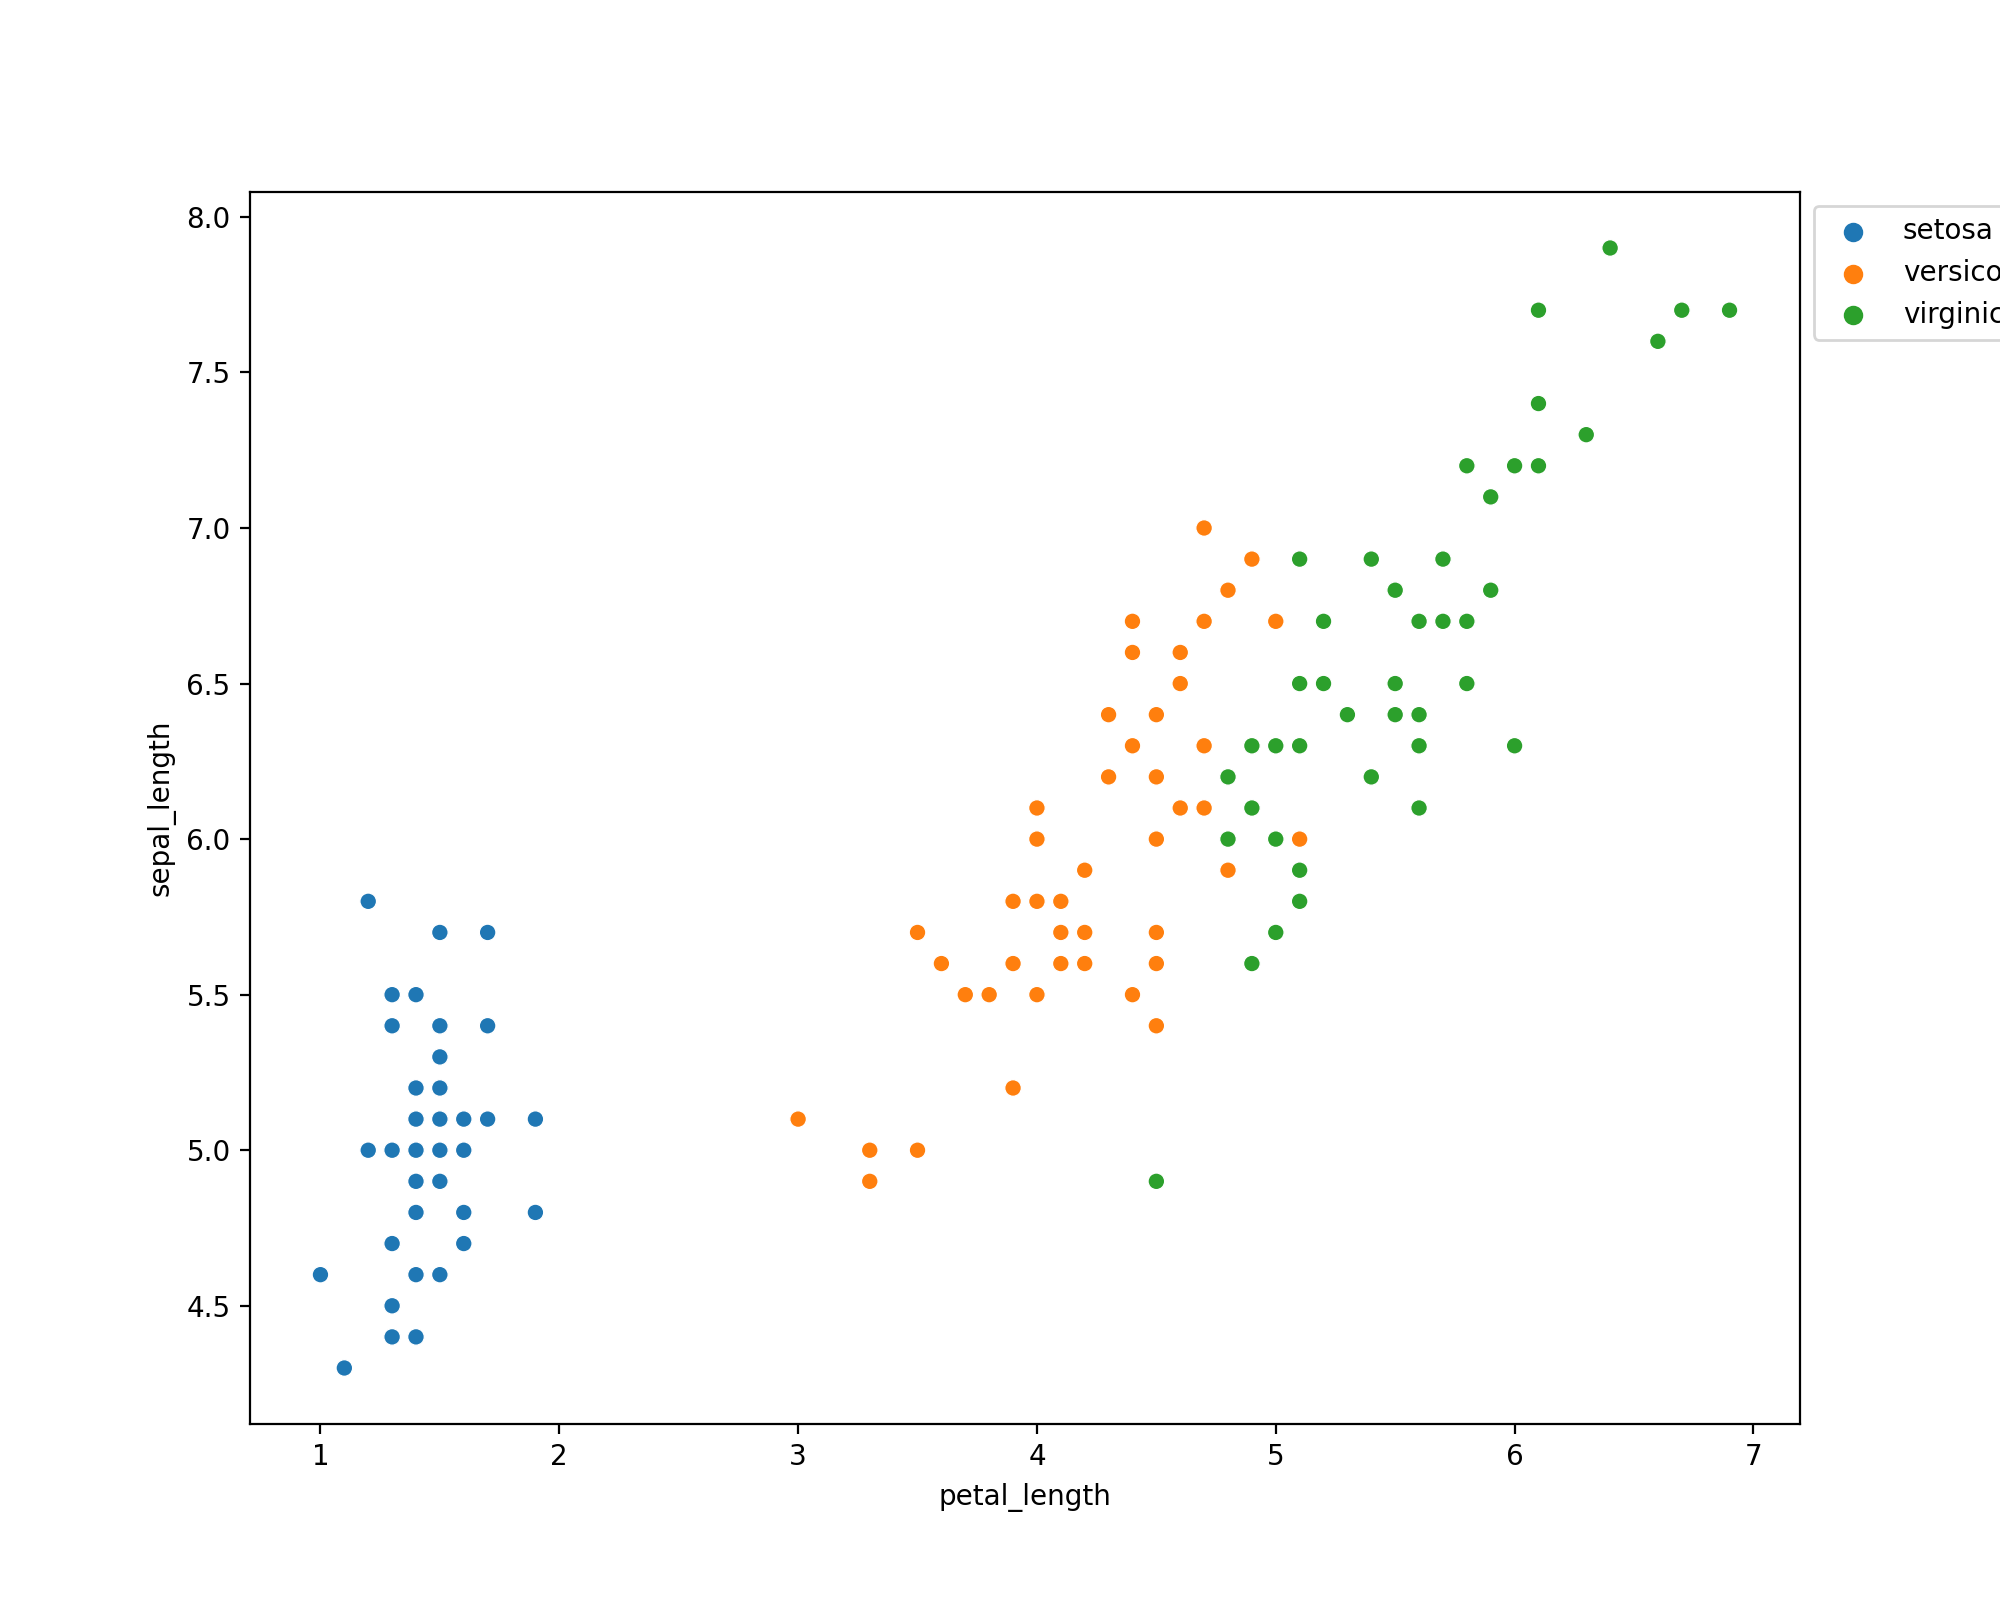
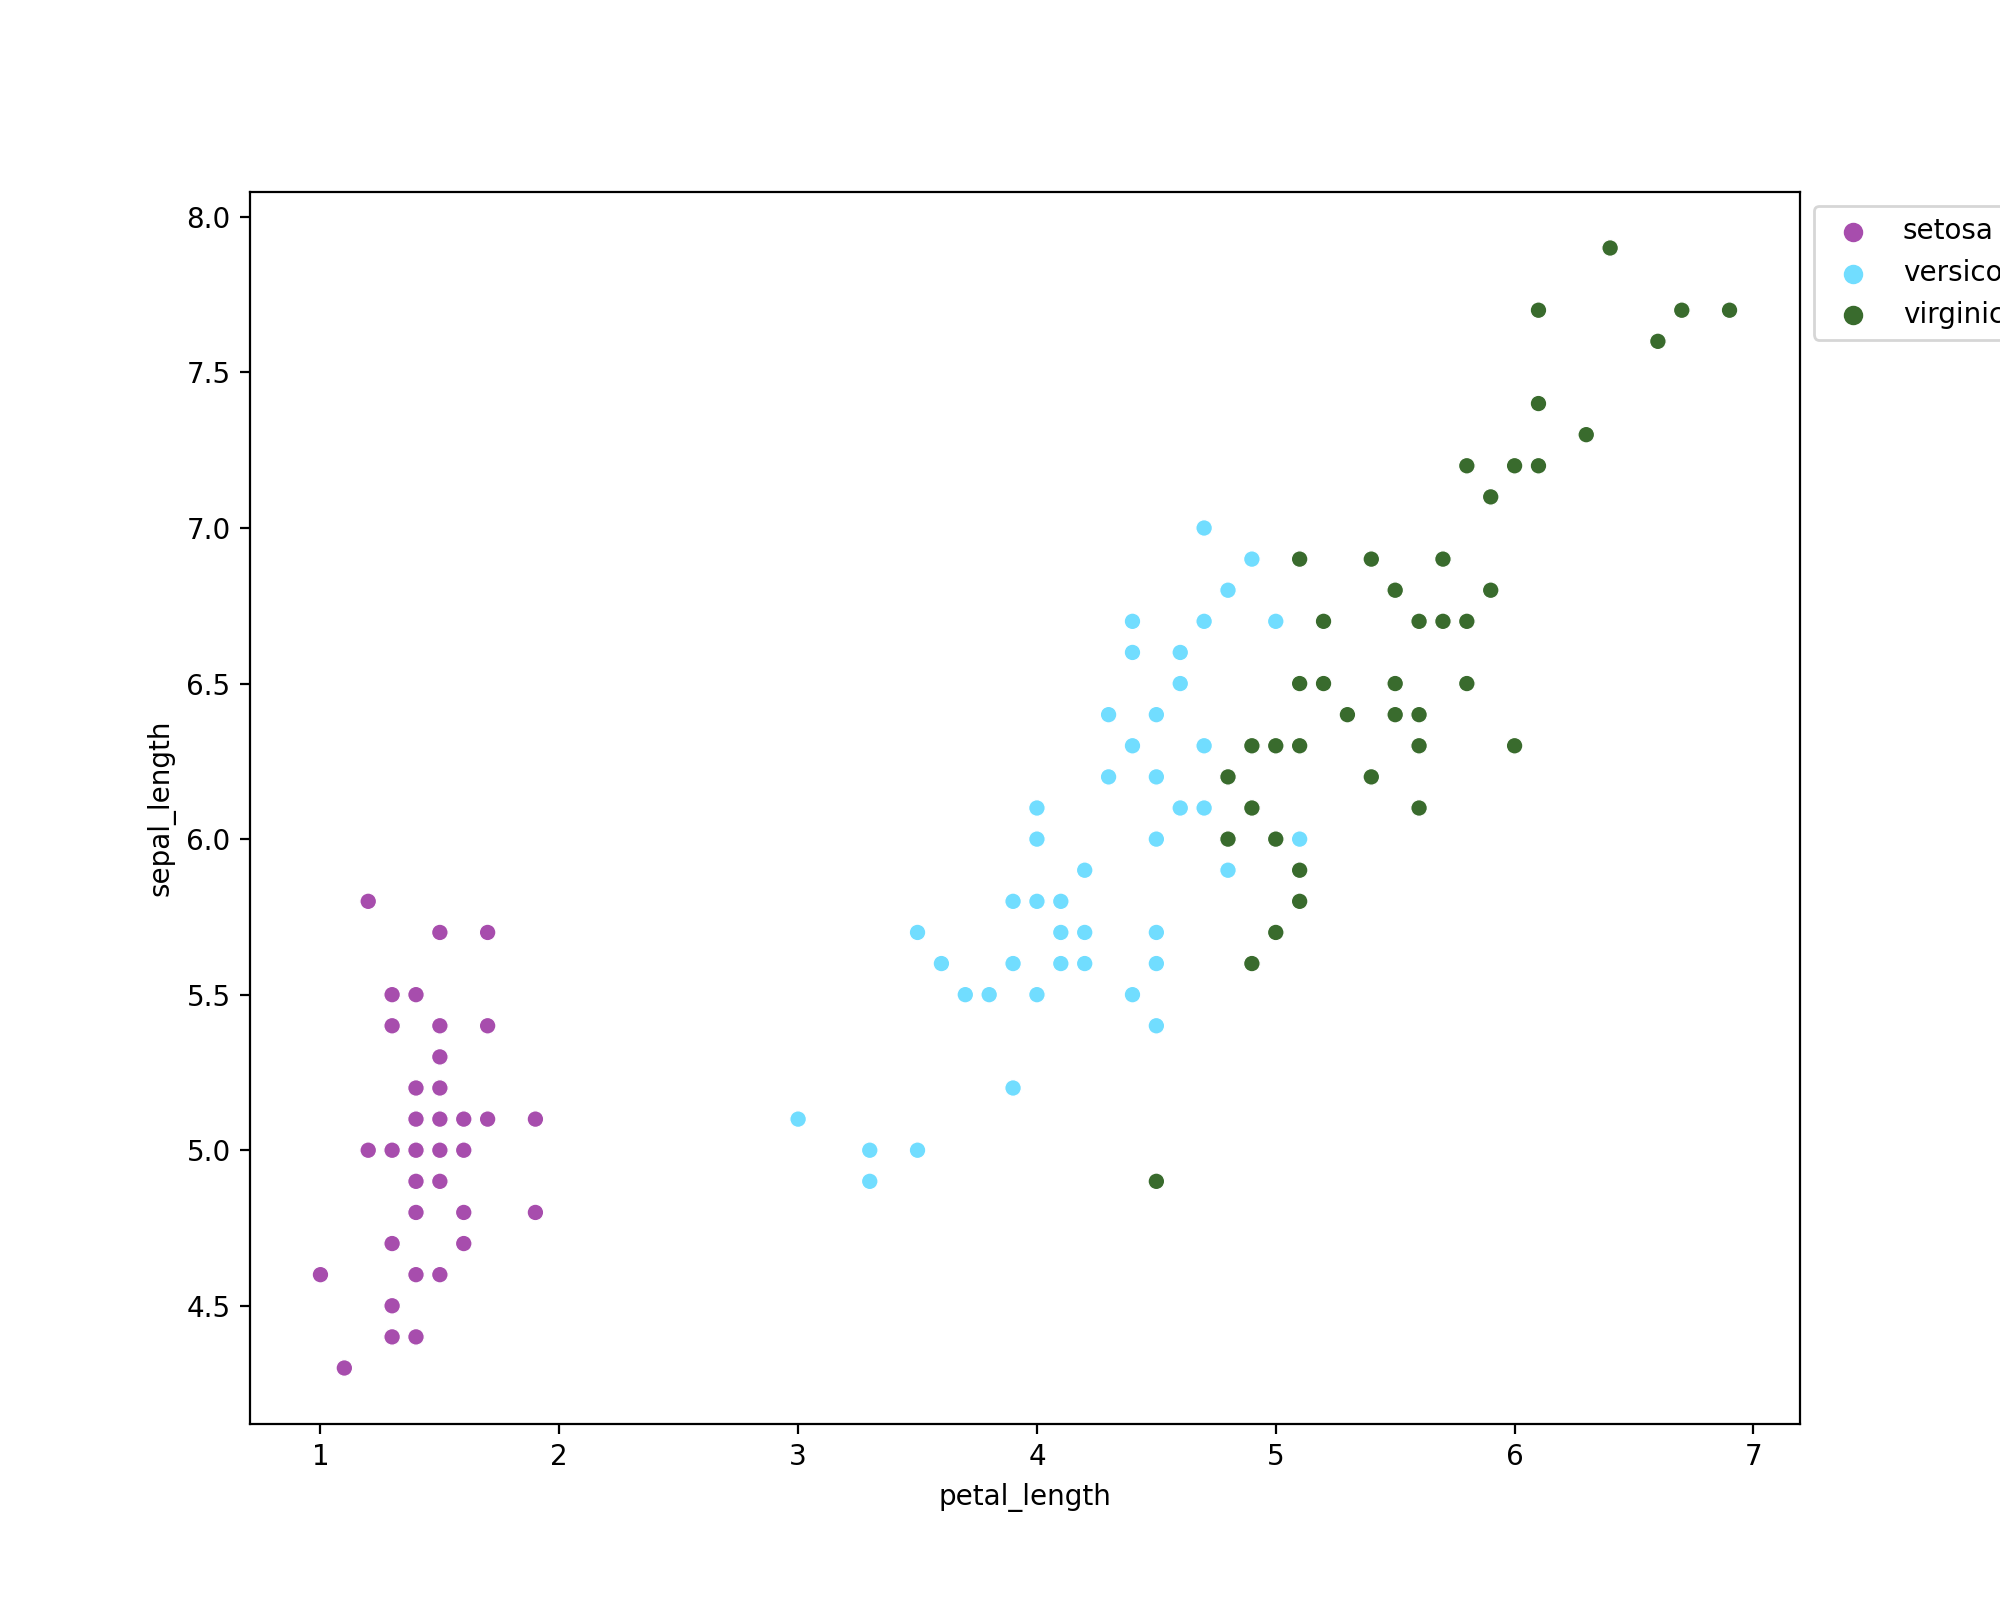
color palettes added via sns to scatter plots to make clearer/aesthetic

diff --git a/analysis.py b/analysis.py
@@ -77,7 +77,7 @@ print(df.value_counts("species"))
 #pair1 petal_length v petal_width
 plt.gcf().set_size_inches(10, 8)
 #sets the size of image in inches
-sns.scatterplot(x="petal_width", y="petal_length", hue="species", data=df)
+sns.scatterplot(x="petal_width", y="petal_length", hue="species", data=df, palette=["#A74DAD", "#71DDFF", "#396B2D"])
 plt.legend(bbox_to_anchor=(1, 1), loc=2)
 plt.savefig("Petal Width V Petal Length Scatterplot", dpi=200)
 #saves the figure - saved with particular dpi(dots per inch = clarity of image) to fit all in image file
@@ -90,7 +90,7 @@ plt.close()
 
 #pair2 sepal_length v sepal_width
 plt.gcf().set_size_inches(10, 8)
-sns.scatterplot(x="sepal_width", y="sepal_length", hue="species", data=df)
+sns.scatterplot(x="sepal_width", y="sepal_length", hue="species", data=df, palette=["#A74DAD", "#71DDFF", "#396B2D"])
 plt.legend(bbox_to_anchor=(1, 1), loc=2)
 plt.savefig("Sepal Width V Sepal Length Scatterplot", dpi=200)
 plt.close()
@@ -100,7 +100,7 @@ plt.close()
 
 #pair3 sepal_length v petal_length
 plt.gcf().set_size_inches(10, 8)
-sns.scatterplot(x="petal_length", y="sepal_length", hue="species", data=df)
+sns.scatterplot(x="petal_length", y="sepal_length", hue="species", data=df, palette=["#A74DAD", "#71DDFF", "#396B2D"])
 plt.legend(bbox_to_anchor=(1, 1), loc=2)
 plt.savefig("Sepal Length V Petal Length Scatterplot", dpi=200)
 plt.close()
@@ -109,7 +109,7 @@ plt.close()
 
 #pair4 sepal_width v petal_width
 plt.gcf().set_size_inches(10, 8)
-sns.scatterplot(x="petal_width", y="sepal_width", hue="species", data=df)
+sns.scatterplot(x="petal_width", y="sepal_width", hue="species", data=df, palette=["#A74DAD", "#71DDFF", "#396B2D"])
 plt.legend(bbox_to_anchor=(1, 1), loc=2)
 plt.savefig("Sepal Width V Petal Width Scatterplot", dpi=200)
 plt.close()
@@ -118,7 +118,7 @@ plt.close()
 
 #pair5 Sepal Length V Petal Width
 plt.gcf().set_size_inches(10, 8)
-sns.scatterplot(x="petal_width", y="sepal_length", hue="species", data=df)
+sns.scatterplot(x="petal_width", y="sepal_length", hue="species", data=df, palette=["#A74DAD", "#71DDFF", "#396B2D"])
 plt.legend(bbox_to_anchor=(1, 1), loc=2)
 plt.savefig("Sepal Length V Petal Width Scatterplot", dpi=200)
 plt.close()
@@ -127,9 +127,8 @@ plt.close()
 
 #pair6 Sepal Width V Petal Length
 plt.gcf().set_size_inches(10, 8)
-sns.scatterplot(x="sepal_width", y="petal_length", hue="species", data=df)
+sns.scatterplot(x="sepal_width", y="petal_length", hue="species", data=df, palette=["#A74DAD", "#71DDFF", "#396B2D"])
 plt.legend(bbox_to_anchor=(1, 1), loc=2)
-
 plt.savefig("Sepal Width V Petal Length Scatterplot", dpi=200)
 plt.close()
 
@@ -153,7 +152,6 @@ ax[0, 0].hist(df[0], label=cols[0], color="#F7EE77", ec="#DED66A")
 ax[0, 1].hist(df[1], alpha=1, label=cols[1], color="#511FC2", ec="#1B0B42")
 ax[1, 0].hist(df[2], alpha=0.6, label=cols[2], color="#F78E77", ec="#B86A58")
 ax[1, 1].hist(df[3], alpha=0.5, label=cols[3], color="#41AB85", ec="#296B53")
-
 #alpha 1 makes top most shape transparent fully, the rest lesser modes of transparancy
 
 #needs legends on each!!!###############
